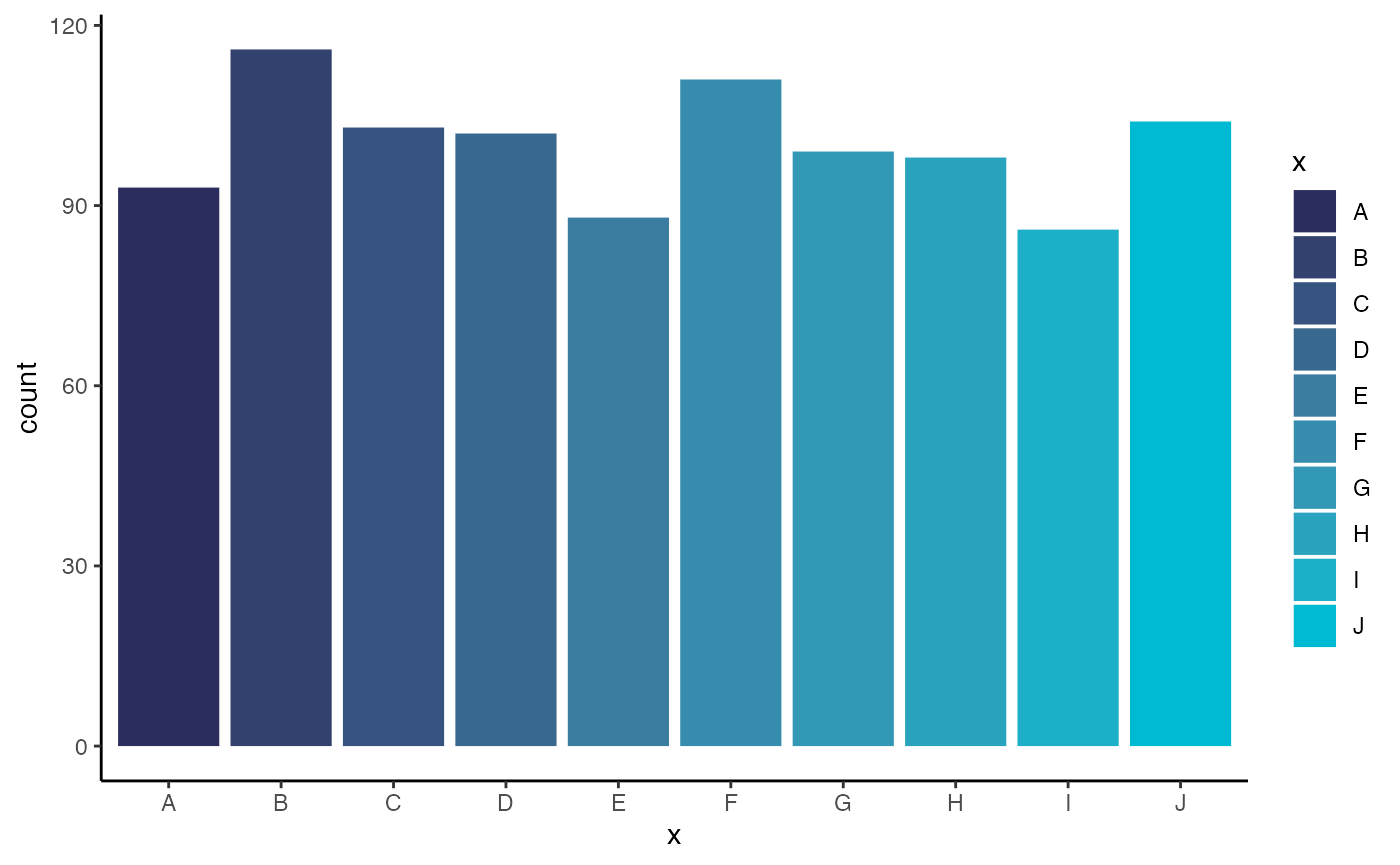
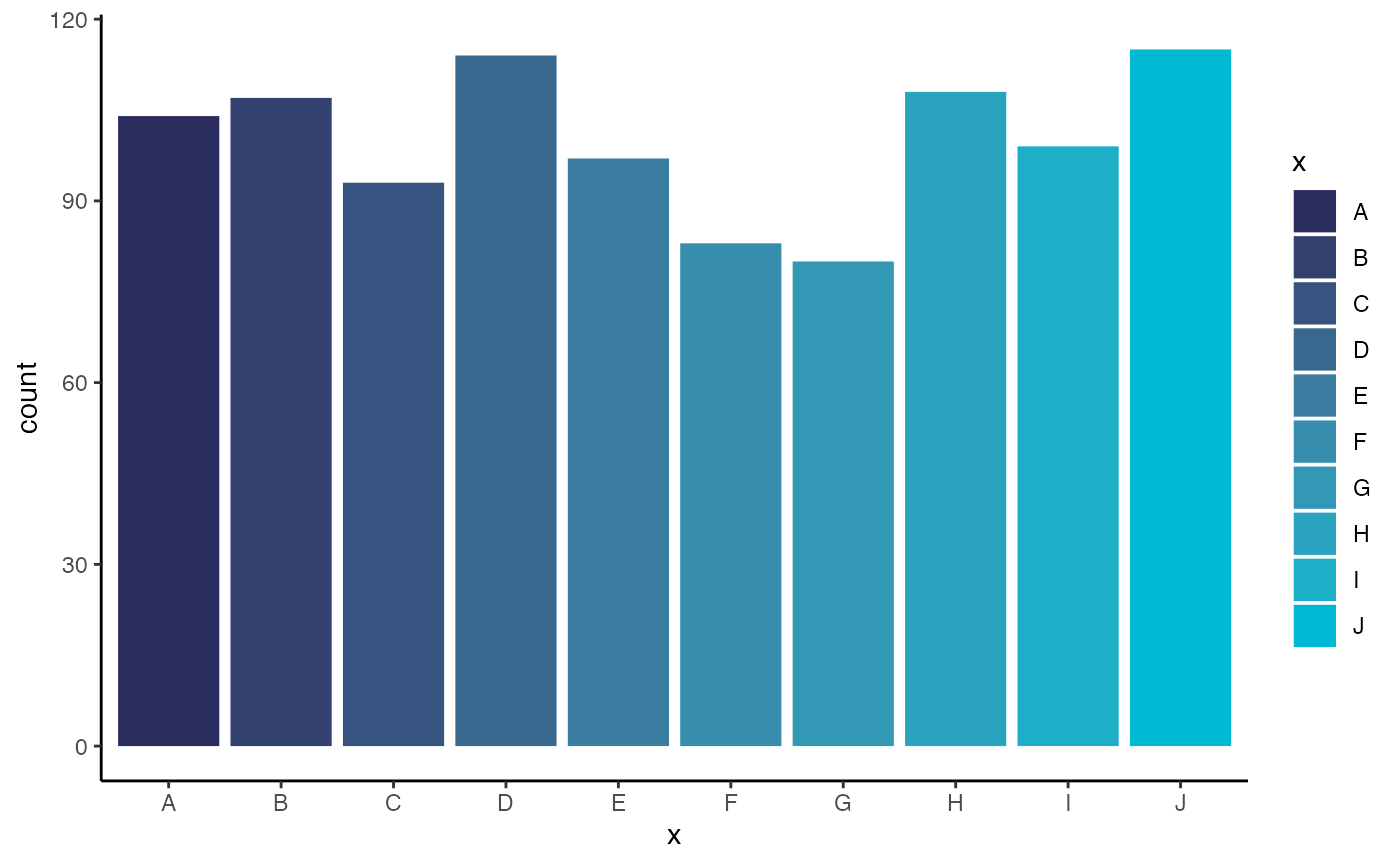
Editing colour blind article

diff --git a/docs/articles/HGUTheme.html b/docs/articles/HGUTheme.html
@@ -181,18 +181,18 @@ regression line on top. First we can make some fake data</p>
 <span><span class="op">)</span></span>
 <span><span class="va">plot_data</span></span>
 <span><span class="co">#&gt; <span style="color: #949494;"># A tibble: 100 × 2</span></span></span>
-<span><span class="co">#&gt;        x      y</span></span>
-<span><span class="co">#&gt;    <span style="color: #949494; font-style: italic;">&lt;dbl&gt;</span>  <span style="color: #949494; font-style: italic;">&lt;dbl&gt;</span></span></span>
-<span><span class="co">#&gt; <span style="color: #BCBCBC;"> 1</span> 0.437 0.376 </span></span>
-<span><span class="co">#&gt; <span style="color: #BCBCBC;"> 2</span> 0.780 0.585 </span></span>
-<span><span class="co">#&gt; <span style="color: #BCBCBC;"> 3</span> 0.367 0.019<span style="text-decoration: underline;">6</span></span></span>
-<span><span class="co">#&gt; <span style="color: #BCBCBC;"> 4</span> 0.230 0.089<span style="text-decoration: underline;">2</span></span></span>
-<span><span class="co">#&gt; <span style="color: #BCBCBC;"> 5</span> 0.640 0.952 </span></span>
-<span><span class="co">#&gt; <span style="color: #BCBCBC;"> 6</span> 0.528 0.600 </span></span>
-<span><span class="co">#&gt; <span style="color: #BCBCBC;"> 7</span> 0.741 0.902 </span></span>
-<span><span class="co">#&gt; <span style="color: #BCBCBC;"> 8</span> 0.436 0.446 </span></span>
-<span><span class="co">#&gt; <span style="color: #BCBCBC;"> 9</span> 0.529 0.655 </span></span>
-<span><span class="co">#&gt; <span style="color: #BCBCBC;">10</span> 0.777 0.957 </span></span>
+<span><span class="co">#&gt;         x     y</span></span>
+<span><span class="co">#&gt;     <span style="color: #949494; font-style: italic;">&lt;dbl&gt;</span> <span style="color: #949494; font-style: italic;">&lt;dbl&gt;</span></span></span>
+<span><span class="co">#&gt; <span style="color: #BCBCBC;"> 1</span> 0.216  0.430</span></span>
+<span><span class="co">#&gt; <span style="color: #BCBCBC;"> 2</span> 0.651  0.796</span></span>
+<span><span class="co">#&gt; <span style="color: #BCBCBC;"> 3</span> 0.196  0.288</span></span>
+<span><span class="co">#&gt; <span style="color: #BCBCBC;"> 4</span> 0.013<span style="text-decoration: underline;">4</span> 0.142</span></span>
+<span><span class="co">#&gt; <span style="color: #BCBCBC;"> 5</span> 0.941  0.789</span></span>
+<span><span class="co">#&gt; <span style="color: #BCBCBC;"> 6</span> 0.942  1.01 </span></span>
+<span><span class="co">#&gt; <span style="color: #BCBCBC;"> 7</span> 0.563  0.407</span></span>
+<span><span class="co">#&gt; <span style="color: #BCBCBC;"> 8</span> 0.399  0.520</span></span>
+<span><span class="co">#&gt; <span style="color: #BCBCBC;"> 9</span> 0.802  0.630</span></span>
+<span><span class="co">#&gt; <span style="color: #BCBCBC;">10</span> 0.724  0.498</span></span>
 <span><span class="co">#&gt; <span style="color: #949494;"># … with 90 more rows</span></span></span></code></pre></div>
 <p>Then we can make a simple plot that you might make for a
 presentation:</p>

diff --git a/docs/articles/ColourBlind.html b/docs/articles/ColourBlind.html
@@ -98,7 +98,31 @@ drastically increase the accessibility of your plots for people who
 suffer from colour blindness. Increasing the accessibility of your work
 makes life easier for everyone, making your plots more readable even to
 people who do not suffer from colour blindness.</p>
-  </main>
+<p>Here is an example of a basic plot with <code>HGUTheme</code></p>
+<p><img src="ColourBlind_files/figure-html/unnamed-chunk-2-1.png" width="700"></p>
+<p>Here is what this plot would look like to people who suffer from
+various forms of colour blindness.</p>
+<p><img src="ColourBlind_files/figure-html/unnamed-chunk-3-1.png" width="700"></p>
+<p>This might not look too bad, but lets compare it to another plot with
+a palette designed for people who suffer from colour blindness.</p>
+<p><img src="ColourBlind_files/figure-html/unnamed-chunk-4-1.png" width="700"><img src="ColourBlind_files/figure-html/unnamed-chunk-4-2.png" width="700"></p>
+<p>This might not fit in aesthetically the same way with the PowerPoint
+theme, but it is obviously much better for people who suffer from colour
+blindness.</p>
+<p><em>If you wish to recreate these colourblind representations
+yourself, they were made using the <code>colorblindr</code> package,
+found <a href="https://github.com/clauswilke/colorblindr" class="external-link">here</a>.</em></p>
+<p>To find out more about colour blindness then here are some resources
+that we and our colleagues find useful:</p>
+<ul>
+<li><a href="https://jfly.uni-koeln.de/color/" class="external-link">How to make figures and
+presentations that are friendly to Colorblind people</a></li>
+<li><a href="https://clauswilke.com/dataviz/color-pitfalls.html" class="external-link">Common
+pitfalls of color use</a></li>
+<li><a href="https://www.tc.faa.gov/its/worldpac/standards/faa-hf-std-010.pdf" class="external-link">A
+very in depth document about the use of colour in coding information
+‘Color Use in Air Traffic Control System Displays’</a></li>
+</ul></main>
 </div>
 
 

diff --git a/docs/reference/hgu_palette.html b/docs/reference/hgu_palette.html
@@ -79,7 +79,7 @@
 <span class="r-out co"><span class="r-pr">#&gt;</span> {</span>
 <span class="r-out co"><span class="r-pr">#&gt;</span>     c(hgu_dark(), hgu_mid(), hgu_light())</span>
 <span class="r-out co"><span class="r-pr">#&gt;</span> }</span>
-<span class="r-out co"><span class="r-pr">#&gt;</span> &lt;bytecode: 0x7fbe08450040&gt;</span>
+<span class="r-out co"><span class="r-pr">#&gt;</span> &lt;bytecode: 0x7fde35369ba8&gt;</span>
 <span class="r-out co"><span class="r-pr">#&gt;</span> &lt;environment: namespace:HGUTheme&gt;</span>
 </code></pre></div>
     </div>
